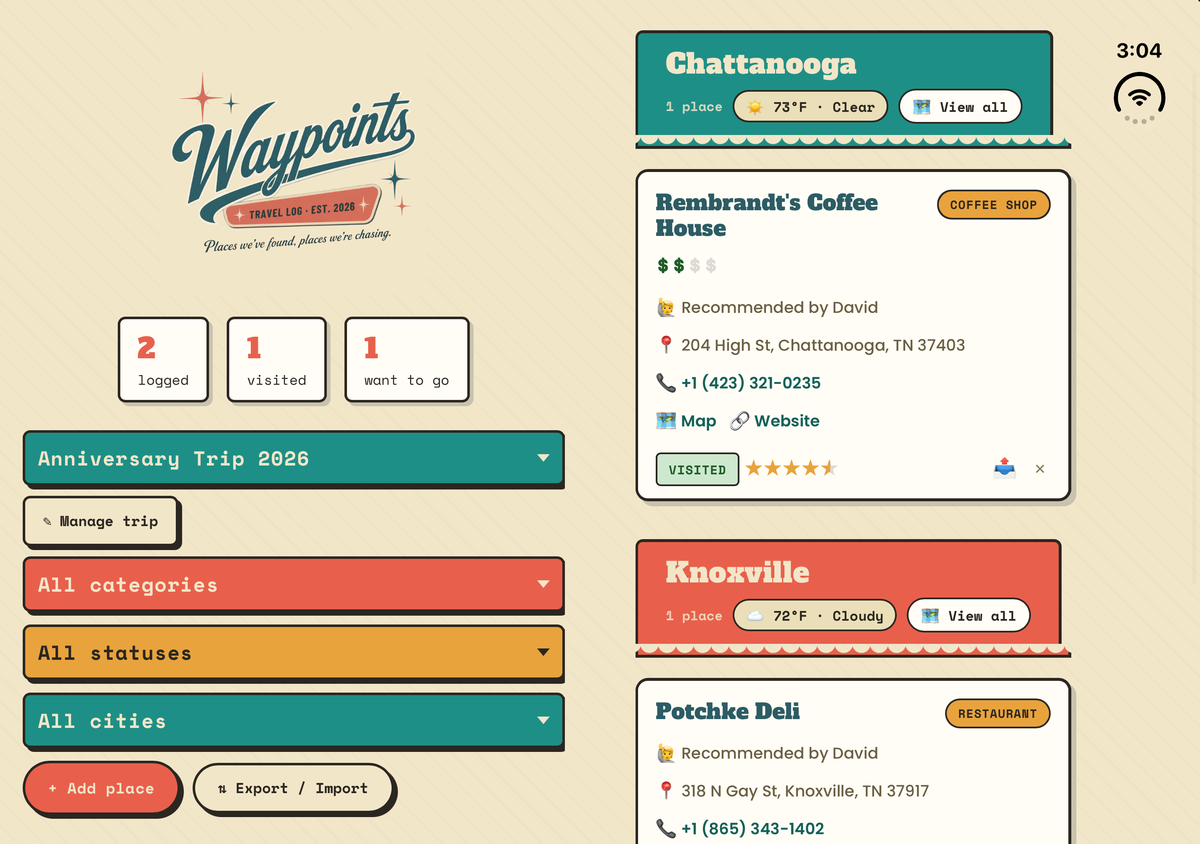
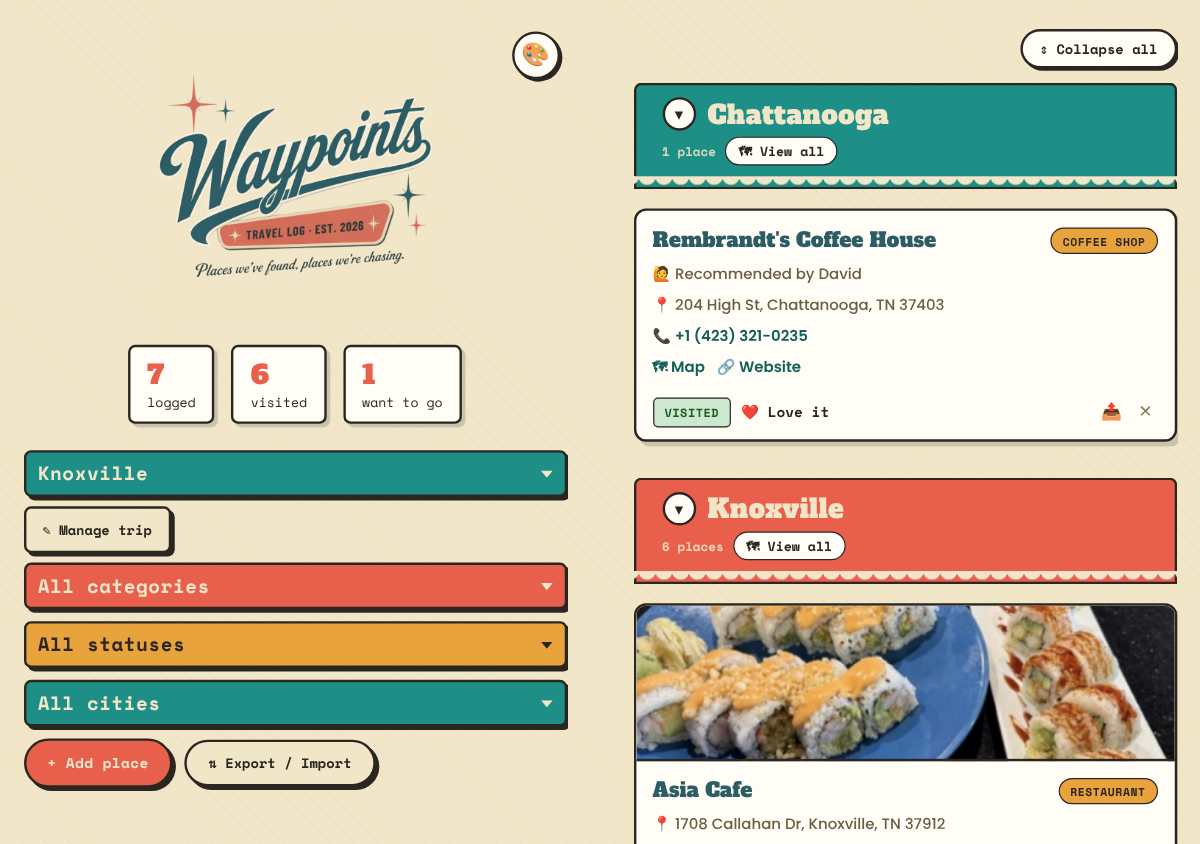
Waypoints Duo and Night Drive images

diff --git a/waypoints.html b/waypoints.html
@@ -166,6 +166,9 @@
       <p style="font-size:14px;color:rgba(32,32,29,0.7);margin:0 0 30px;max-width:640px;">Unfold it and hold it wide, and the list splits in two: the logo and filters on one side of the fold, your places on the other. Each side scrolls on its own, and the places run all the way to the bottom edge. On the outer display it stays a single column. Turn an iPad sideways and you get the same idea: your filters sit in a sidebar, with your places in columns beside them.</p>
       <div style="display:flex;gap:24px;overflow-x:auto;padding-bottom:12px;align-items:flex-start;-webkit-overflow-scrolling:touch;">
         <div style="flex:none;width:min(520px,82vw);">
+          <img src="assets/waypoints-gallery/ipad-night.jpg" loading="lazy" alt="Waypoints on iPad in the Night Drive theme" style="width:100%;height:auto;display:block;border-radius:12px;">
+        </div>
+        <div style="flex:none;width:min(520px,82vw);">
           <img src="assets/waypoints-gallery/theme-cards.jpg" loading="lazy" alt="The same share card in all five themes" style="width:100%;height:auto;display:block;border-radius:12px;">
         </div>
         <div style="flex:none;width:min(520px,82vw);">
